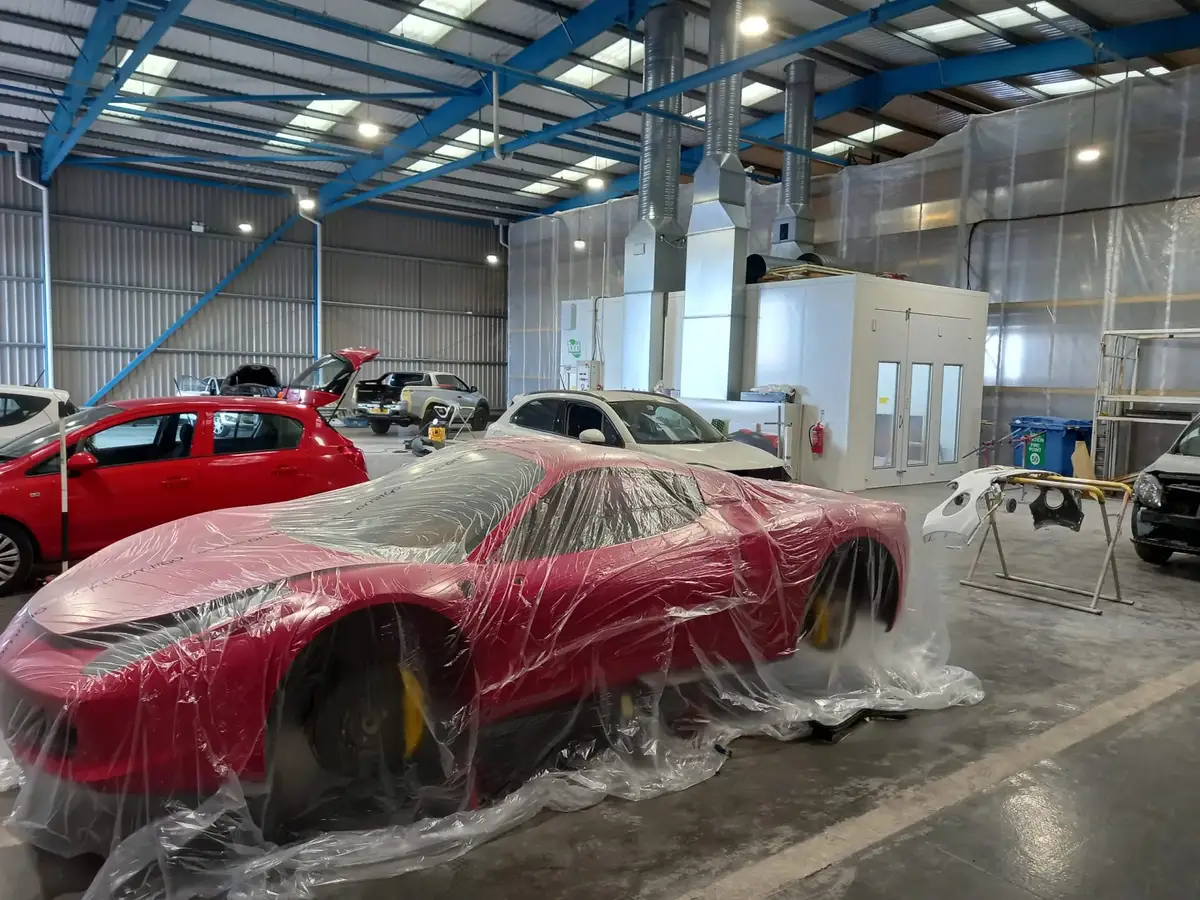
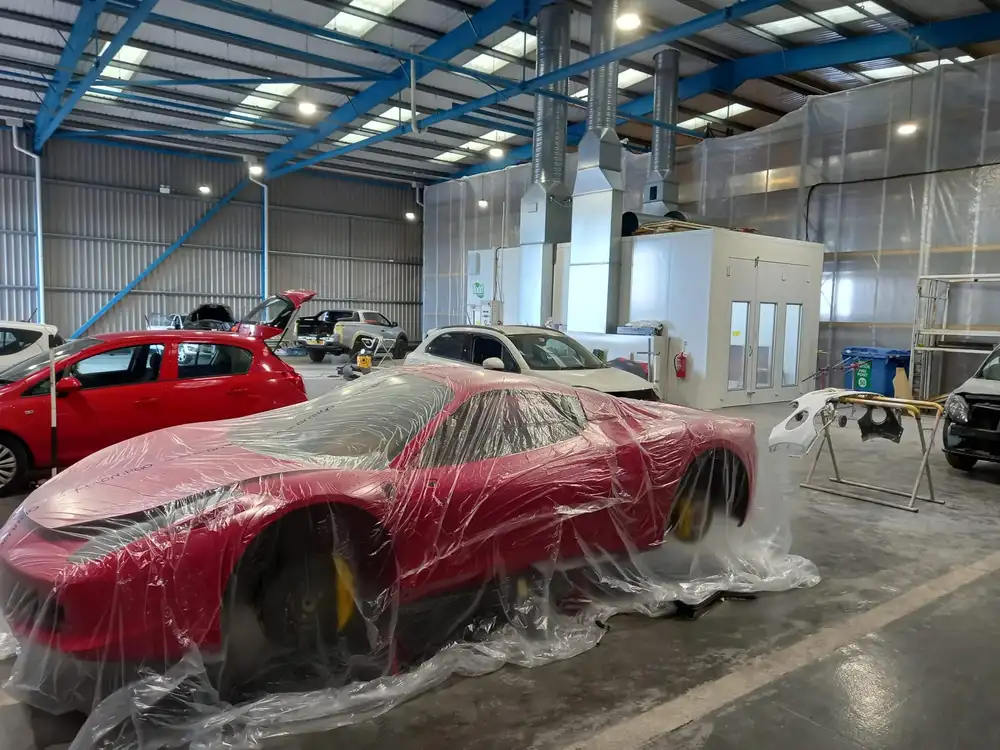
Fix the CLS regression that dropped performance to 77.
Eager-load the homepage so the footer is not pushed down by lazy content, compress hero and logo further, serve Allow robots.txt to PageSpeed only, and fix remaining a11y/SEO nits.

diff --git a/middleware.ts b/middleware.ts
@@ -2,20 +2,34 @@ import { next } from '@vercel/functions';
 
 const NOINDEX = 'noindex, nofollow, noarchive, nosnippet';
 
-/** PageSpeed / Lighthouse only — lets the PSI SEO audit run without a noindex penalty. */
+const PSI_ROBOTS = `# Portfolio demo — lab view for PageSpeed only. Production site: repair-refinish.co.uk
+User-agent: *
+Allow: /
+`;
+
+/** PageSpeed / Lighthouse only — PSI SEO checks without opening real indexing. */
 function isPageSpeedLighthouse(userAgent: string) {
   return /Chrome-Lighthouse|PageSpeed\s*Insights/i.test(userAgent);
 }
 
 export const config = {
-  matcher: ['/((?!images/|assets/|vite\\.svg|robots\\.txt|llms\\.txt).*)'],
+  matcher: ['/((?!images/|assets/|vite\\.svg|llms\\.txt).*)'],
 };
 
 export default function middleware(request: Request) {
   const userAgent = request.headers.get('user-agent') ?? '';
+  const { pathname } = new URL(request.url);
+  const lighthouse = isPageSpeedLighthouse(userAgent);
+
+  if (pathname === '/robots.txt' && lighthouse) {
+    return new Response(PSI_ROBOTS, {
+      headers: { 'Content-Type': 'text/plain; charset=utf-8' },
+    });
+  }
+
   const response = next();
 
-  if (isPageSpeedLighthouse(userAgent)) {
+  if (lighthouse) {
     response.headers.delete('X-Robots-Tag');
     return response;
   }

diff --git a/src/components/Header.tsx b/src/components/Header.tsx
@@ -72,9 +72,9 @@ export default function Header() {
               src={LOGO.main}
               alt="Repair and Refinish Bodyworks"
               className="h-11 w-auto object-contain"
-              width={180}
-              height={65}
-              priority
+              width={311}
+              height={112}
+              decoding="async"
               onError={(e) => {
                 const el = e.target as HTMLImageElement;
                 el.src = LOGO.transparent;

diff --git a/src/App.tsx b/src/App.tsx
@@ -3,8 +3,8 @@ import { lazy, Suspense, useEffect } from 'react';
 import Header from './components/Header';
 import DemoBanner from './components/DemoBanner';
 import Footer from './components/Footer';
+import HomePage from './pages/HomePage';
 
-const HomePage = lazy(() => import('./pages/HomePage'));
 const ServicePage = lazy(() => import('./pages/ServicePage'));
 const GalleryPage = lazy(() => import('./pages/GalleryPage'));
 const AboutPage = lazy(() => import('./pages/AboutPage'));
@@ -18,7 +18,7 @@ function ScrollToTop() {
 }
 
 function PageFallback() {
-  return <div className="min-h-[50vh] bg-black" aria-hidden="true" />;
+  return <div className="min-h-screen bg-black" aria-hidden="true" />;
 }
 
 function Layout() {

diff --git a/src/components/About.tsx b/src/components/About.tsx
@@ -73,7 +73,7 @@ export default function About() {
             {/* Stat card */}
             <div className="absolute bottom-8 right-4 bg-red-600 rounded-2xl p-4 shadow-2xl">
               <div className="text-3xl font-black text-white">30+</div>
-              <div className="text-red-100 text-xs font-medium">Years of Excellence</div>
+              <div className="text-white text-xs font-semibold">Years of Excellence</div>
             </div>
 
             {/* Location badge */}
@@ -134,7 +134,7 @@ export default function About() {
                 to="/about"
                 className="inline-flex items-center gap-2 border border-white/20 hover:border-white/40 text-white font-semibold px-6 py-3 rounded-xl transition-all hover:bg-white/5"
               >
-                Learn More
+                Learn more about our workshop
               </Link>
             </div>
           </div>

diff --git a/src/components/Hero.tsx b/src/components/Hero.tsx
@@ -13,8 +13,8 @@ export default function Hero() {
           alt="Repair and Refinish Bodyworks workshop"
           className="w-full h-full object-cover object-center opacity-30"
           priority
-          width={1200}
-          height={675}
+          width={1000}
+          height={563}
           onError={(e) => {
             const el = e.target as HTMLImageElement;
             el.src = HERO.bg2;

diff --git a/src/components/Footer.tsx b/src/components/Footer.tsx
@@ -20,6 +20,8 @@ export default function Footer() {
                 src={LOGO.main}
                 alt="Repair and Refinish Bodyworks"
                 className="h-12 w-auto object-contain"
+                width={311}
+                height={112}
                 onError={(e) => {
                   const el = e.target as HTMLImageElement;
                   el.src = LOGO.transparent;

diff --git a/src/main.tsx b/src/main.tsx
@@ -1,7 +1,6 @@
 import { StrictMode } from 'react'
 import { createRoot } from 'react-dom/client'
 import '@fontsource/inter/latin-400.css'
-import '@fontsource/inter/latin-600.css'
 import '@fontsource/inter/latin-700.css'
 import '@fontsource/inter/latin-900.css'
 import './index.css'